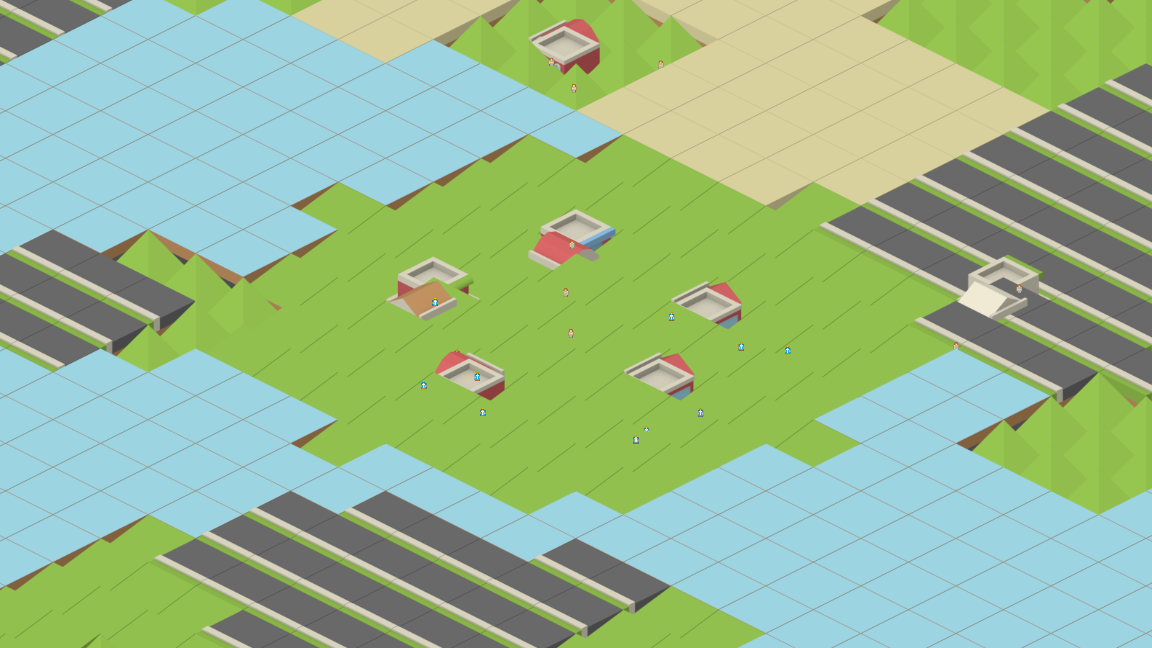
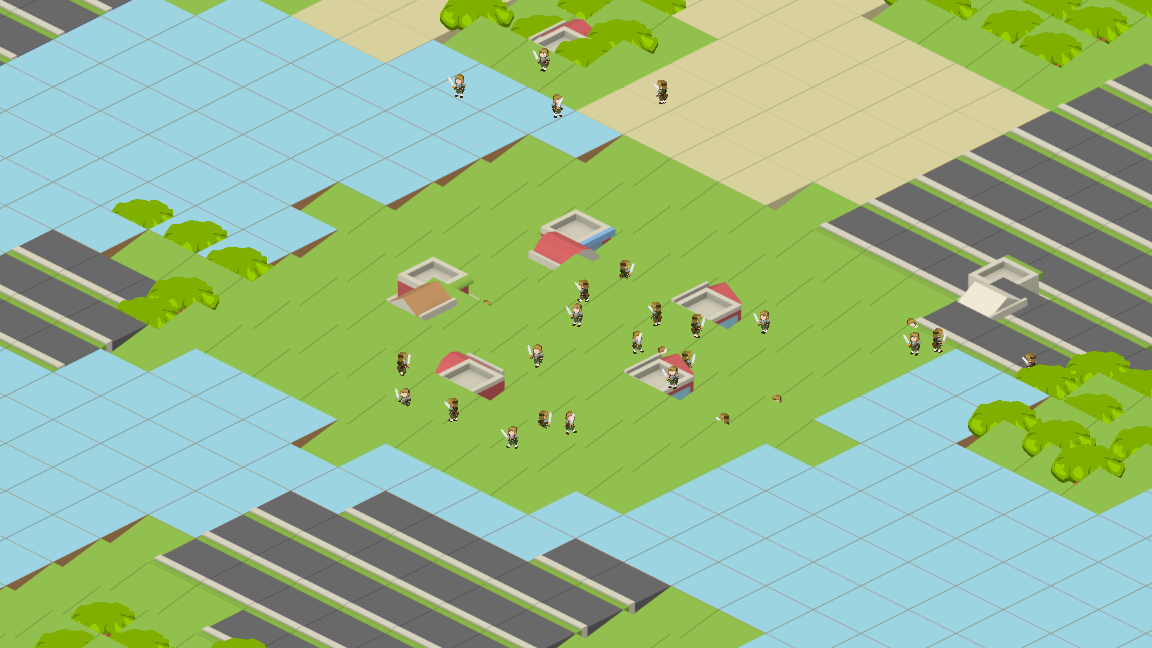
Isometric characters and trees, from the sources you suggested
Kenney has no isometric figures, so the citizens now come from 2DPIXX's free
isometric pack found via the Godot asset store: four facings with idle, walk
and attack animations, at 128x160. Trees for woodland come from the same
pack's village tileset. Both are a large step up from the old top-down sprites,
which read as specks once the camera went isometric.

This is the project's first asset with a licence condition. Everything else is
CC0 and asks for nothing; these sprites are CC-BY 4.0 and require attribution
in anything that ships them, so the obligation is written down in
assets/CREDITS.txt next to the files rather than left in a commit message.

What the search turned up, for the record: itch.io's isometric-and-Godot tag is
mostly voxel, and the two medieval packs that fit best are 17.95 euro minimum
and CC-BY-ND, which forbids modification. OpenGameArt has a usable isometric
worker from Wyrmsun, but it is CC-BY-SA, which is share-alike. The Godot store
had the only free, permissive, animated isometric characters of the three.

Also scales citizens down: at the pack's native size they towered over the
buildings.

diff --git a/godot/README.md b/godot/README.md
@@ -61,10 +61,25 @@ what made the ground tessellate.
   roof, and the stacking offset here is a guess rather than measured.
 - **The buildings are modern.** That pack is a city set. It is a placeholder;
   a medieval isometric set would have to come from elsewhere.
-- **There is no isometric character art in Kenney's catalogue.** The
-  "Isometric Miniature Library" is a room full of bookcases, not figures. The
-  citizens here are the old top-down sprites and read as specks. This is the
-  one asset problem the CC0 catalogue does not solve.
+- **Hills still read as roads.** Kenney's stone plateau has kerbed edges that
+  only show once it is tiled.
+- **The buildings are still Kenney's modern city set**, and they read as
+  open-topped boxes. 2DPIXX's village tileset in `assets/pixx/` is medieval and
+  much better looking, but it is modular walls and roofs, so using it means
+  assembling each building rather than picking a sprite.
+
+### Where the characters came from
+
+Kenney has no isometric figures at all, so the citizens are 2DPIXX's free
+isometric pack: four facings, with idle, walk and attack animations. That fixed
+the problem, at the cost of the project's first licence with a condition
+attached.
+
+**Everything else here is CC0 and asks for nothing. The 2DPIXX sprites are
+CC-BY 4.0 and require attribution in anything that ships them.** See
+`assets/CREDITS.txt`. Worth knowing before that art spreads through the
+codebase: dropping it later is easy now and annoying once the game is built
+around it.
 
 ## Running it
 
